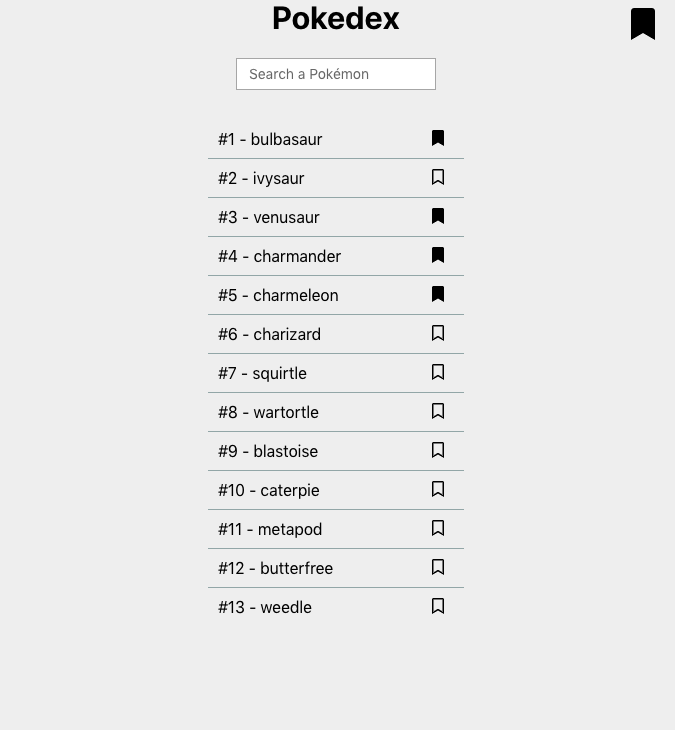
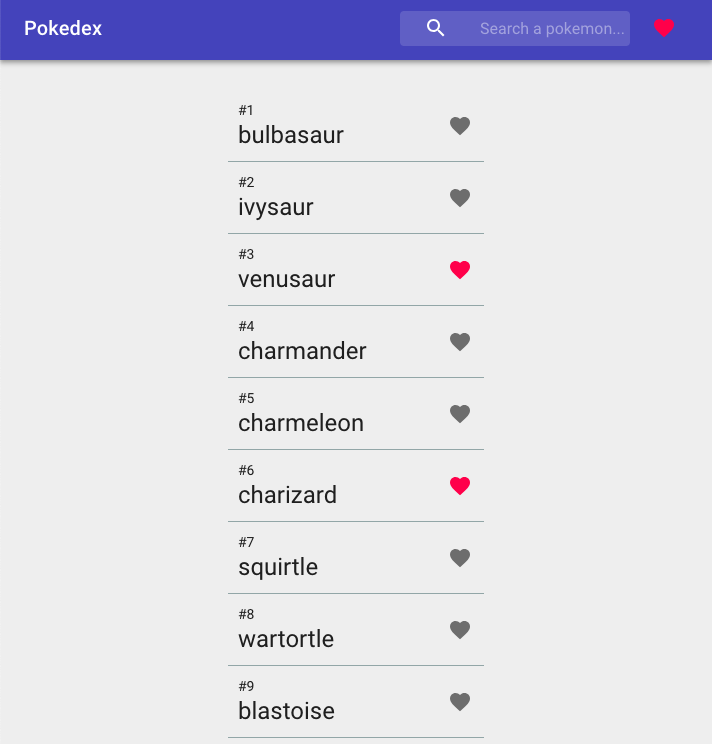
Add search pokemon by id, Update screenshots and readme

diff --git a/src/store.tsx b/src/store.tsx
@@ -202,9 +202,18 @@ class Store {
   }
 
   @computed public get filteredList(): PokemonLineEntry[] {
-    return this.list.filter((pokemonLineEntry) => {
+    const list = this.list.filter((pokemonLineEntry) => {
       return pokemonLineEntry.name.indexOf(this.searchInput) > -1;
     });
+
+    const id = parseInt(this.searchInput, 10) - 1;
+
+    if (isFinite(id) && id > -1 && id < this.list.length) {
+      const idMatch = this.list[id];
+      if (idMatch) { list.push(idMatch); }
+    }
+
+    return list;
   };
 
   @observable public avgStats: AvgStats = {

diff --git a/src/pages/home/PokeList.tsx b/src/pages/home/PokeList.tsx
@@ -125,7 +125,12 @@ function EmptyView(props: any): JSX.Element {
   const hidden: boolean = props.hidden;
 
   if (hidden) {
-    return <StyledCenterDiv>No match has been found :(</StyledCenterDiv>;
+    return (
+      <StyledCenterDiv>
+        <Typography>
+          No match has been found :(
+        </Typography>
+      </StyledCenterDiv>);
   }
 
   return <span></span>;

diff --git a/README.md b/README.md
@@ -1,6 +1,10 @@
 # pokedex
 
-A simple react pokedex app for test purposes.
+A simple react pokedex app for experiments.
+
+## Quickstart
+
+You can test the app at the available URL at the top of this page.
 
 ## screenshot
 
@@ -9,6 +13,13 @@ A simple react pokedex app for test purposes.
 | ![home.png](screenshots/home.png)             | ![details.png](screenshots/details.png) |
 | ![bookmarks.png](/screenshots/bookmarks.png)  | ![tweets.png](/screenshots/tweets.png) |
 
+## features
+
+* Browse Pokemons list
+* Search a Pokemon by name or by id
+* Compare a Pokemon's statistics with all others Pokemons of the same type(s)
+* View recent Tweet about a Pokemon
+
 ## development
 
 * Clone the repo with `git clone https://github.com/rootasjey/catchthemall`
@@ -16,13 +27,14 @@ A simple react pokedex app for test purposes.
 * Install dependencies with `yarn` or `npm install`
 * Run the app with `yarn run start` or `npm start`
 
-## tools
+## 3rd party libraries
 
-* [fabric](https://developer.microsoft.com/en-us/fabric)
 * [fontawesome](https://fontawesome.com)
 * [graphql-request](https://github.com/prisma/graphql-request)
+* [maetrial-ui](https://material-ui.com/)
 * [mobx](https://mobx.js.org/index.html)
 * [react](http://reactjs.org)
+* [react-list](https://github.com/coderiety/react-list#readme)
 * [react-router](https://reacttraining.com/react-router/web/guides/quick-start)
 * [styled-components](https://www.styled-components.com)
 * [typescript](http://typescriptlang.org)
